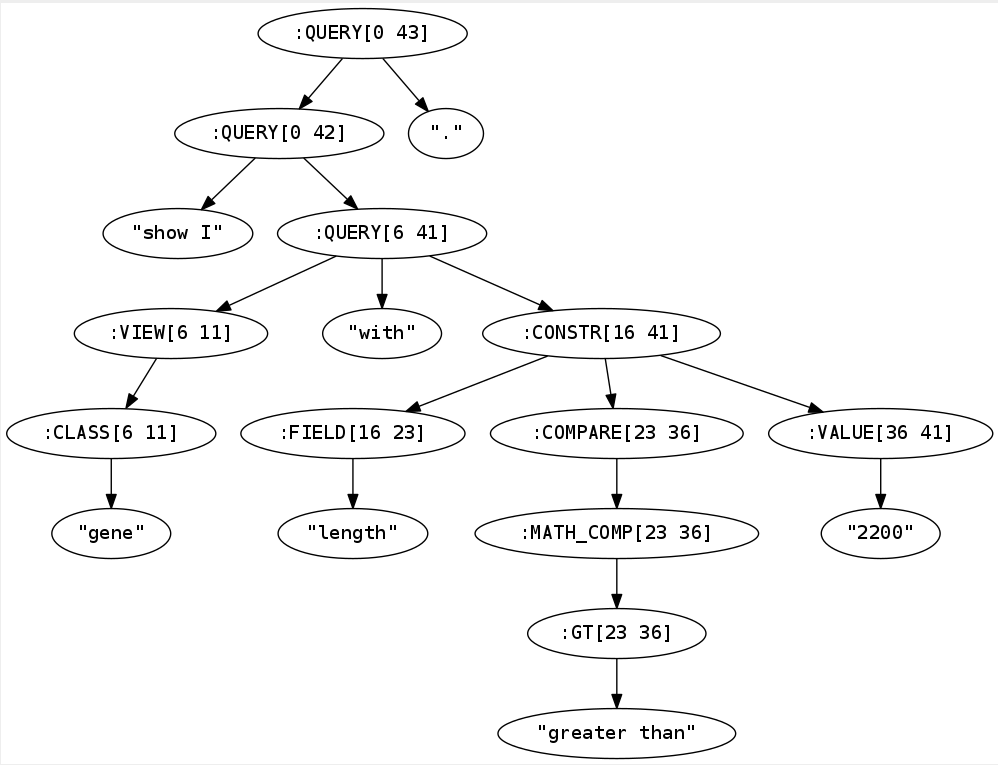
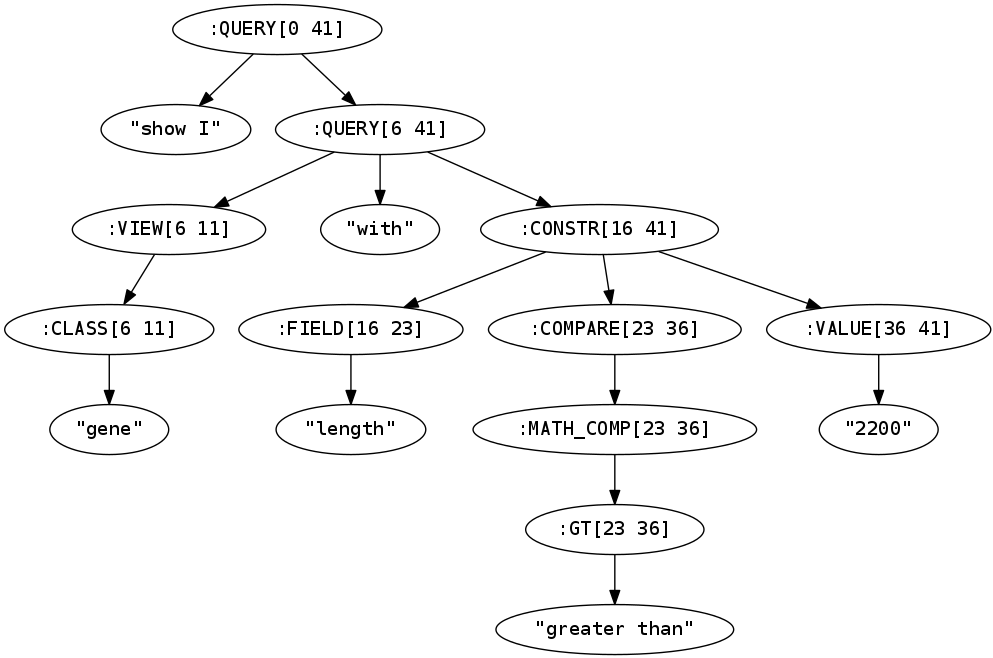
updated parse sentence and tree image in example

diff --git a/README.md b/README.md
@@ -41,8 +41,9 @@ To load a model and construct a parser pipeline:
 
 ;;; Bad query
 (parser-pipeline "This is a test sentence that does not parse.")
-;;; Good query
+;;; Good queries
 (parser-pipeline "Which genes have names like GOPHER?")
+(parser-pipeline "Show me genes with length greater than 2200")
 ```
 You can read more about those and others [here](src/intermine_nlp/README.md).
 
